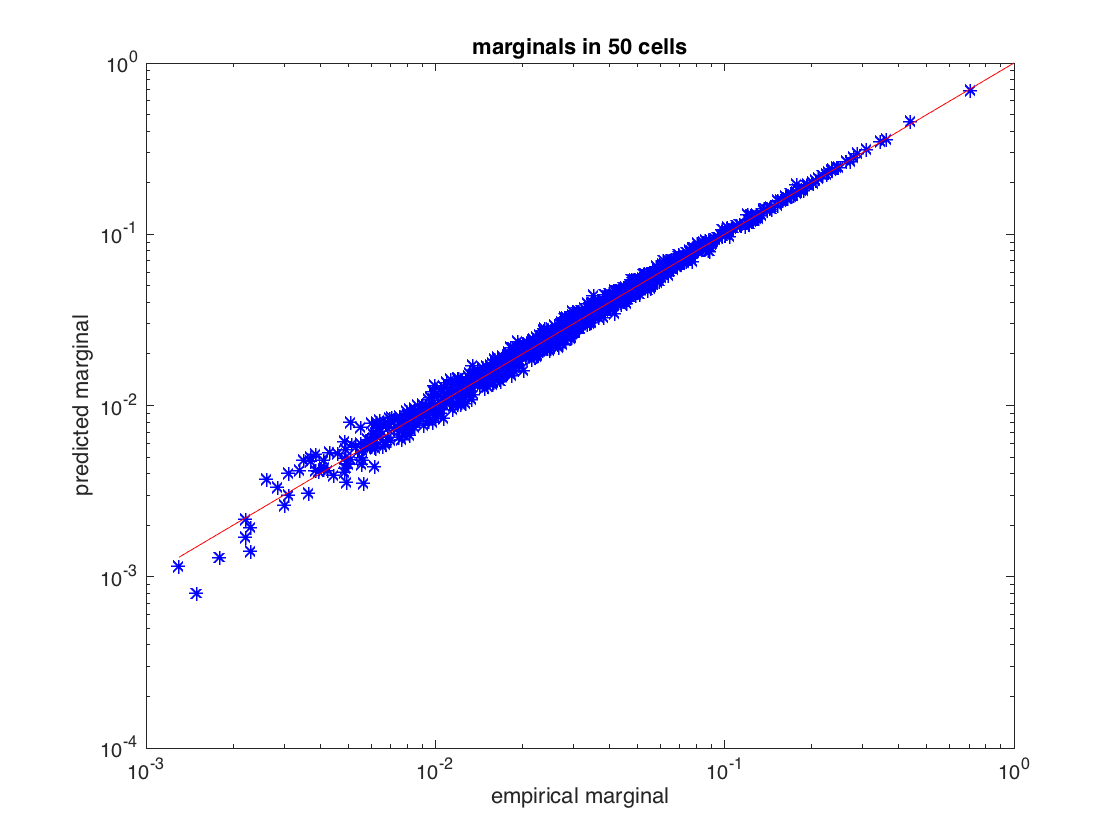
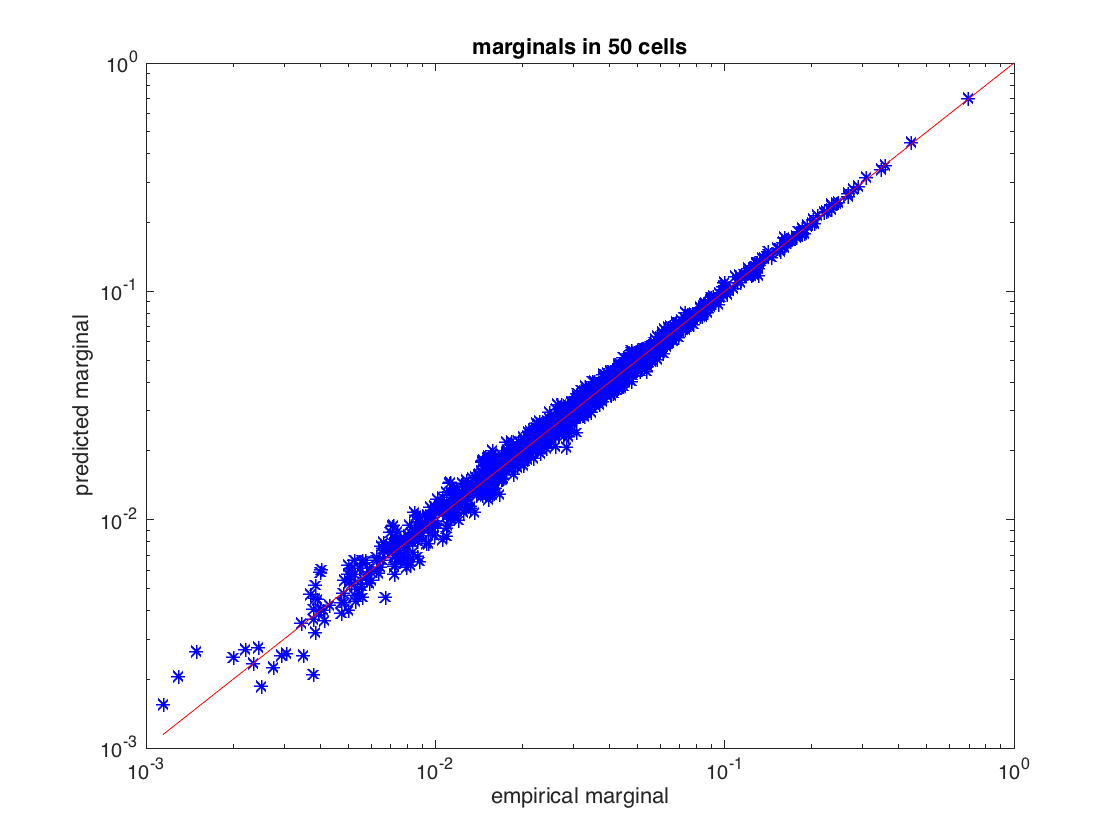
tweaked the example a bit so that it runs faster (less strict arguments to wangLandau)

diff --git a/docs/maxent_example.html b/docs/maxent_example.html
@@ -6,7 +6,7 @@
    <!--
 This HTML was auto-generated from MATLAB code.
 To make changes, update the MATLAB code and republish this document.
-      --><title>maxent_example</title><meta name="generator" content="MATLAB 8.6"><link rel="schema.DC" href="http://purl.org/dc/elements/1.1/"><meta name="DC.date" content="2016-07-11"><meta name="DC.source" content="maxent_example.m"><style type="text/css">
+      --><title>maxent_example</title><meta name="generator" content="MATLAB 8.6"><link rel="schema.DC" href="http://purl.org/dc/elements/1.1/"><meta name="DC.date" content="2016-07-12"><meta name="DC.source" content="maxent_example.m"><style type="text/css">
 html,body,div,span,applet,object,iframe,h1,h2,h3,h4,h5,h6,p,blockquote,pre,a,abbr,acronym,address,big,cite,code,del,dfn,em,font,img,ins,kbd,q,s,samp,small,strike,strong,sub,sup,tt,var,b,u,i,center,dl,dt,dd,ol,ul,li,fieldset,form,label,legend,table,caption,tbody,tfoot,thead,tr,th,td{margin:0;padding:0;border:0;outline:0;font-size:100%;vertical-align:baseline;background:transparent}body{line-height:1}ol,ul{list-style:none}blockquote,q{quotes:none}blockquote:before,blockquote:after,q:before,q:after{content:'';content:none}:focus{outine:0}ins{text-decoration:none}del{text-decoration:line-through}table{border-collapse:collapse;border-spacing:0}
 
 html { min-height:100%; margin-bottom:1px; }
@@ -110,20 +110,10 @@ ylabel(<span class="string">'predicted marginal'</span>);
 title(sprintf(<span class="string">'marginals in %d cells'</span>,ncells));
 </pre><pre class="codeoutput">Training to threshold: 1.000 standard deviations
 Maximum MSE: 1.000
-194/Inf  MSE=4.102 (mean), 222.137 (max) [19]  DKL: 0.113
-391/Inf  MSE=0.997 (mean), 12.345 (max) [75]  DKL: 0.081
-589/Inf  MSE=0.425 (mean), 6.522 (max) [59]  DKL: 0.074
-787/Inf  MSE=0.158 (mean), 3.392 (max) [33]  DKL: 0.071
-982/Inf  MSE=0.084 (mean), 2.317 (max) [9]  DKL: 0.070
-1180/Inf  MSE=0.042 (mean), 2.543 (max) [46]  DKL: 0.069
-1377/Inf  MSE=0.039 (mean), 2.397 (max) [8]  DKL: 0.069
-1573/Inf  MSE=0.029 (mean), 2.212 (max) [8]  DKL: 0.068
-1770/Inf  MSE=0.016 (mean), 1.286 (max) [46]  DKL: 0.068
-1966/Inf  MSE=0.013 (mean), 1.212 (max) [46]  DKL: 0.068
 converged (marginals match)
-Standard deviations from marginals: 0.098 (mean), 0.999 (max) [46]  DKL: 0.067
-Kullback-Leibler divergence from test set: 0.076758
-Model entropy: 5.331   empirical dataset entropy: 5.328
+Standard deviations from marginals: 0.114 (mean), 0.969 (max) [8]  DKL: 0.068
+Kullback-Leibler divergence from test set: 0.076733
+Model entropy: 5.348   empirical dataset entropy: 5.308
 </pre><img vspace="5" hspace="5" src="maxent_example_01.png" style="width:560px;height:420px;" alt=""> <h2>part 2: working with larger distributions of neurons (MCMC)<a name="3"></a></h2><pre class="codeinput">load <span class="string">example50</span>
 
 <span class="comment">% randomly divide into train/test sets</span>
@@ -160,9 +150,9 @@ title(sprintf(<span class="string">'marginals in %d cells'</span>,ncells));
 
 <span class="comment">% the model that the MCMC solver returns is not normalized. If we want to compare the predicted and actual probabilities</span>
 <span class="comment">% of individual firing patterns, we will need to first normalize the model. We will use the wang-landau algorithm for</span>
-<span class="comment">% this</span>
+<span class="comment">% this. We chose parameters which are less strict than the default settings so that we will have a faster runtime.</span>
 disp(<span class="string">'Normalizing model...'</span>);
-model = wangLandau(model);
+model = wangLandau(model,<span class="string">'binsize'</span>,0.1,<span class="string">'depth'</span>,15);
 
 <span class="comment">% the normalization factor was added to the model structure. Now that we have a normalized model, we'll use it to</span>
 <span class="comment">% predict the frequency of activity patterns. We will start by observing all the patterns that repeated at least twice</span>
@@ -201,18 +191,31 @@ simulated_empirical_distribution = getEmpiricalModel(samples_simulated);
 fprintf(<span class="string">'Entropy of simulated data: %.03f bits\n'</span>,simulated_empirical_distribution.entropy);
 </pre><pre class="codeoutput">Training to threshold: 1.500 standard deviations
 Maximum samples: 17778   maximum MSE: 3.375
-334/Inf samples=4167  MSE=6.786 (mean), 28.591 (max) [19]
-402/Inf samples=8245  MSE=3.675 (mean), 20.614 (max) [411]
-443/Inf samples=12419  MSE=2.510 (mean), 9.564 (max) [383]
-472/Inf samples=16589  MSE=1.940 (mean), 7.462 (max) [382]
-496/Inf samples=17778  MSE=1.592 (mean), 7.673 (max) [411]
-520/Inf samples=17778  MSE=1.359 (mean), 3.706 (max) [407]
+331/Inf samples=4043  MSE=7.057 (mean), 35.308 (max) [19]
+400/Inf samples=8082  MSE=3.603 (mean), 23.449 (max) [383]
+441/Inf samples=12174  MSE=2.417 (mean), 14.382 (max) [790]
+471/Inf samples=16424  MSE=1.842 (mean), 5.910 (max) [382]
+495/Inf samples=17778  MSE=1.543 (mean), 6.620 (max) [776]
+518/Inf samples=17778  MSE=1.375 (mean), 6.180 (max) [748]
+542/Inf samples=17778  MSE=1.377 (mean), 6.522 (max) [790]
+565/Inf samples=17778  MSE=1.364 (mean), 5.212 (max) [382]
+589/Inf samples=17778  MSE=1.354 (mean), 5.228 (max) [382]
+613/Inf samples=17778  MSE=1.345 (mean), 3.976 (max) [748]
+637/Inf samples=17778  MSE=1.299 (mean), 3.776 (max) [382]
+661/Inf samples=17778  MSE=1.303 (mean), 4.501 (max) [382]
+684/Inf samples=17778  MSE=1.312 (mean), 4.469 (max) [382]
+707/Inf samples=17778  MSE=1.312 (mean), 4.198 (max) [382]
+730/Inf samples=17778  MSE=1.348 (mean), 4.622 (max) [18]
+754/Inf samples=17778  MSE=1.397 (mean), 5.311 (max) [18]
+778/Inf samples=17778  MSE=1.311 (mean), 3.594 (max) [18]
+802/Inf samples=17778  MSE=1.326 (mean), 4.124 (max) [382]
+826/Inf samples=17778  MSE=1.297 (mean), 3.621 (max) [382]
 converged (marginals match)
 Normalizing model...
-[....................]
-Elapsed time is 103.065094 seconds.
-Model entropy: 31.146 bits, empirical entropy (test set): 14.271 bits
-Entropy of simulated data: 14.272 bits
+[...............]
+Elapsed time is 3.832325 seconds.
+Model entropy: 31.107 bits, empirical entropy (test set): 14.275 bits
+Entropy of simulated data: 14.273 bits
 </pre><img vspace="5" hspace="5" src="maxent_example_02.png" style="width:560px;height:420px;" alt=""> <img vspace="5" hspace="5" src="maxent_example_03.png" style="width:560px;height:420px;" alt=""> <h2>part 3: working with MERP distributions of neurons<a name="4"></a></h2><pre class="codeinput"><span class="comment">% load spiking data of 15 neurons</span>
 load <span class="string">example15</span>
 
@@ -263,43 +266,46 @@ test_dkl = dkl(empirical_distribution.logprobs,model_logprobs);
 fprintf(<span class="string">'Kullback-Leibler divergence from test set: %f\n'</span>,test_dkl);
 </pre><pre class="codeoutput">Training to threshold: 1.000 standard deviations
 Maximum MSE: 1.000
-68/Inf  MSE=7.382 (mean), 303.764 (max) [49]  DKL: 0.212
-135/Inf  MSE=0.863 (mean), 35.760 (max) [49]  DKL: 0.147
-203/Inf  MSE=0.228 (mean), 5.578 (max) [49]  DKL: 0.124
-271/Inf  MSE=0.160 (mean), 6.366 (max) [49]  DKL: 0.114
-338/Inf  MSE=0.060 (mean), 2.864 (max) [49]  DKL: 0.107
-405/Inf  MSE=0.045 (mean), 2.917 (max) [49]  DKL: 0.103
+step size: 0.500000
+step size: 0.250000
+step size: 0.125000
+59/Inf  MSE=0.298 (mean), 30.981 (max) [43]  DKL: 0.107
+125/Inf  MSE=0.031 (mean), 3.300 (max) [43]  DKL: 0.088
+191/Inf  MSE=0.007 (mean), 1.667 (max) [84]  DKL: 0.083
+257/Inf  MSE=0.004 (mean), 1.149 (max) [84]  DKL: 0.082
 converged (marginals match)
-Standard deviations from marginals: 0.156 (mean), 0.987 (max) [49]  DKL: 0.101
-Kullback-Leibler divergence from test set: 0.111219
+Standard deviations from marginals: 0.058 (mean), 0.995 (max) [84]  DKL: 0.081
+Kullback-Leibler divergence from test set: 0.089648
 Training to threshold: 1.000 standard deviations
 Maximum MSE: 1.000
-34/Inf  MSE=12.895 (mean), 878.541 (max) [286]  DKL: 0.220
-69/Inf  MSE=1.279 (mean), 96.907 (max) [286]  DKL: 0.133
-103/Inf  MSE=0.268 (mean), 19.201 (max) [286]  DKL: 0.111
-138/Inf  MSE=0.137 (mean), 9.373 (max) [286]  DKL: 0.101
-173/Inf  MSE=0.072 (mean), 13.124 (max) [286]  DKL: 0.094
-209/Inf  MSE=0.050 (mean), 11.557 (max) [286]  DKL: 0.090
-244/Inf  MSE=0.030 (mean), 5.613 (max) [286]  DKL: 0.086
-279/Inf  MSE=0.019 (mean), 1.500 (max) [286]  DKL: 0.084
+step size: 0.500000
+step size: 0.250000
+step size: 0.125000
+step size: 0.062500
+step size: 0.031250
+25/Inf  MSE=3.936 (mean), 727.110 (max) [244]  DKL: 0.181
+61/Inf  MSE=0.268 (mean), 68.845 (max) [244]  DKL: 0.116
+96/Inf  MSE=0.089 (mean), 13.969 (max) [244]  DKL: 0.100
+132/Inf  MSE=0.033 (mean), 7.496 (max) [244]  DKL: 0.091
+168/Inf  MSE=0.016 (mean), 2.509 (max) [244]  DKL: 0.085
+203/Inf  MSE=0.010 (mean), 1.044 (max) [244]  DKL: 0.082
 converged (marginals match)
-Standard deviations from marginals: 0.132 (mean), 0.998 (max) [286]  DKL: 0.083
-Kullback-Leibler divergence from test set: 0.098061
+Standard deviations from marginals: 0.096 (mean), 0.994 (max) [244]  DKL: 0.082
+Kullback-Leibler divergence from test set: 0.095455
 ....................
 Training to threshold: 1.000 standard deviations
 Maximum MSE: 1.000
-33/Inf  MSE=1.055 (mean), 16.898 (max) [286]  DKL: 0.098
-67/Inf  MSE=0.174 (mean), 8.309 (max) [251]  DKL: 0.089
-100/Inf  MSE=0.057 (mean), 4.824 (max) [131]  DKL: 0.085
-133/Inf  MSE=0.033 (mean), 2.317 (max) [131]  DKL: 0.083
-167/Inf  MSE=0.023 (mean), 1.551 (max) [147]  DKL: 0.082
-200/Inf  MSE=0.016 (mean), 1.222 (max) [234]  DKL: 0.080
-233/Inf  MSE=0.012 (mean), 1.454 (max) [234]  DKL: 0.079
-267/Inf  MSE=0.009 (mean), 1.439 (max) [234]  DKL: 0.078
-300/Inf  MSE=0.007 (mean), 1.065 (max) [234]  DKL: 0.077
+step size: 0.500000
+step size: 0.250000
+step size: 0.125000
+step size: 0.062500
+25/Inf  MSE=0.204 (mean), 13.121 (max) [91]  DKL: 0.091
+60/Inf  MSE=0.030 (mean), 4.987 (max) [3]  DKL: 0.081
+95/Inf  MSE=0.010 (mean), 2.673 (max) [3]  DKL: 0.077
+129/Inf  MSE=0.005 (mean), 1.244 (max) [95]  DKL: 0.075
 converged (marginals match)
-Standard deviations from marginals: 0.083 (mean), 0.993 (max) [234]  DKL: 0.077
-Kullback-Leibler divergence from test set: 0.094603
+Standard deviations from marginals: 0.064 (mean), 0.982 (max) [95]  DKL: 0.074
+Kullback-Leibler divergence from test set: 0.088513
 </pre><p class="footer"><br><a href="http://www.mathworks.com/products/matlab/">Published with MATLAB&reg; R2015b</a><br></p></div><!--
 ##### SOURCE BEGIN #####
 % Example code for the maximum entropy toolkit
@@ -388,9 +394,9 @@ title(sprintf('marginals in %d cells',ncells));
 
 % the model that the MCMC solver returns is not normalized. If we want to compare the predicted and actual probabilities
 % of individual firing patterns, we will need to first normalize the model. We will use the wang-landau algorithm for
-% this
+% this. We chose parameters which are less strict than the default settings so that we will have a faster runtime.
 disp('Normalizing model...');
-model = wangLandau(model);
+model = wangLandau(model,'binsize',0.1,'depth',15);
 
 % the normalization factor was added to the model structure. Now that we have a normalized model, we'll use it to
 % predict the frequency of activity patterns. We will start by observing all the patterns that repeated at least twice

diff --git a/example/maxent_example.m b/example/maxent_example.m
@@ -84,9 +84,9 @@ title(sprintf('marginals in %d cells',ncells));
 
 % the model that the MCMC solver returns is not normalized. If we want to compare the predicted and actual probabilities
 % of individual firing patterns, we will need to first normalize the model. We will use the wang-landau algorithm for
-% this
+% this. We chose parameters which are less strict than the default settings so that we will have a faster runtime.
 disp('Normalizing model...');
-model = wangLandau(model);
+model = wangLandau(model,'binsize',0.1,'depth',15);
 
 % the normalization factor was added to the model structure. Now that we have a normalized model, we'll use it to
 % predict the frequency of activity patterns. We will start by observing all the patterns that repeated at least twice
